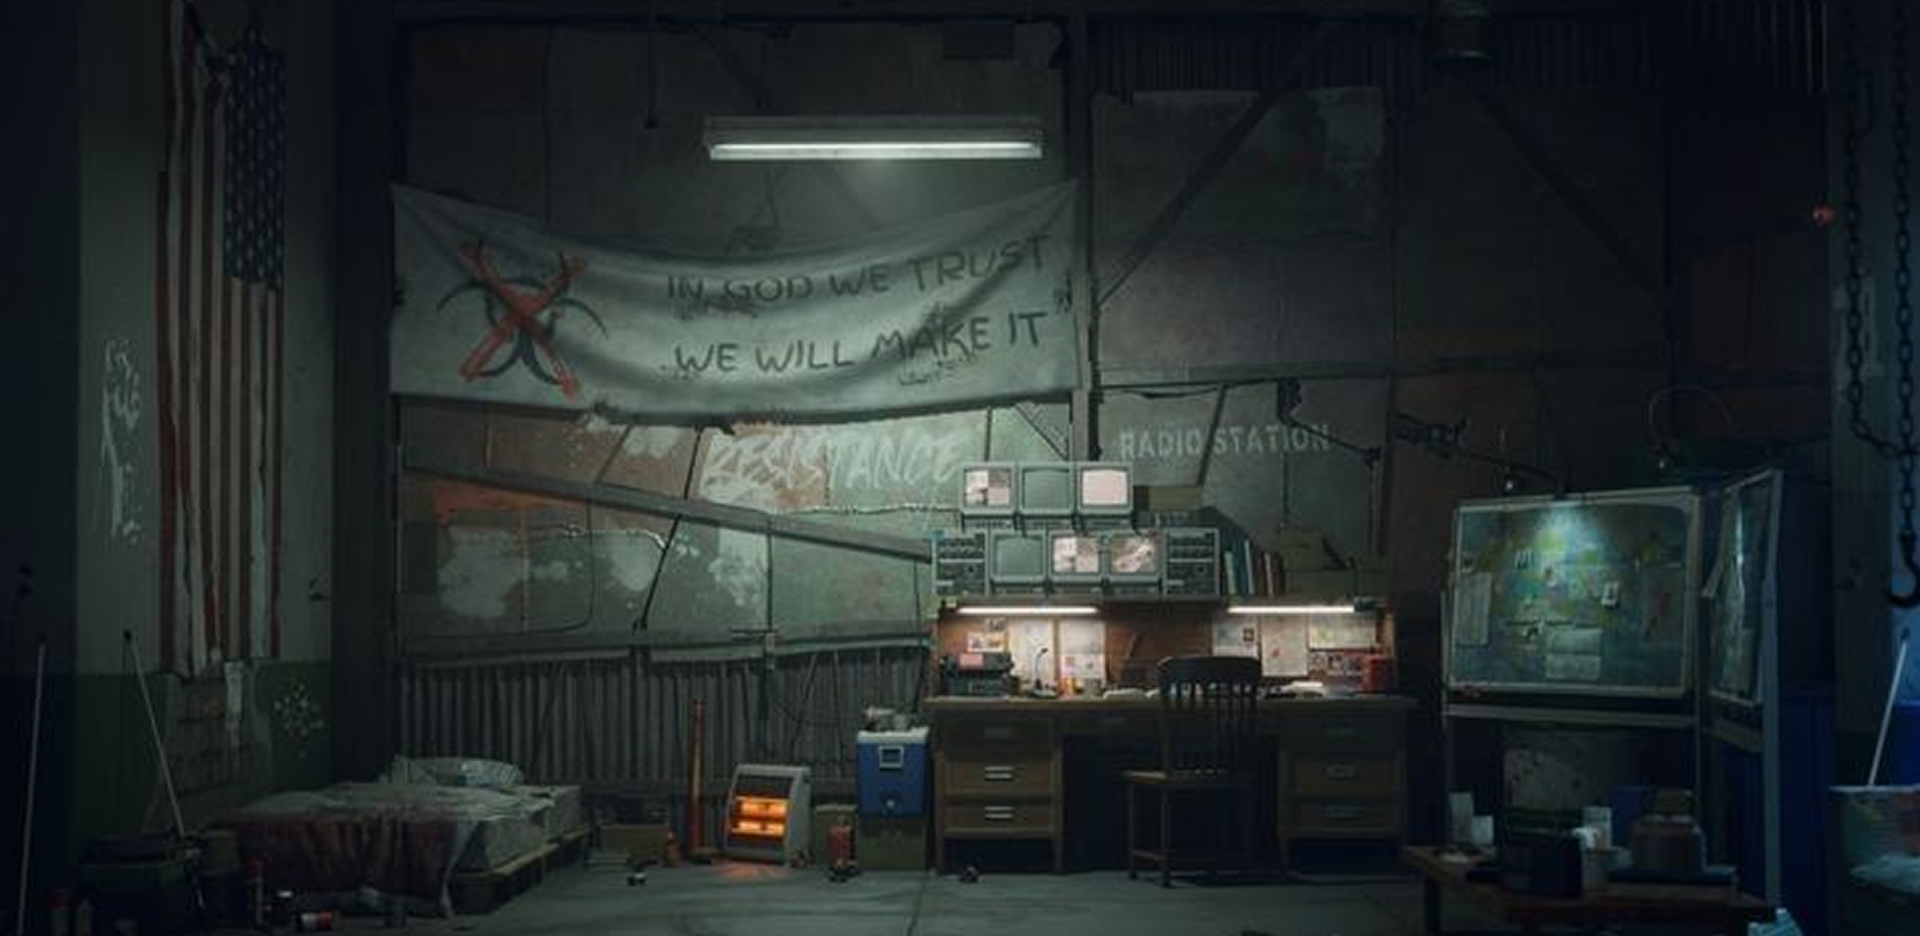
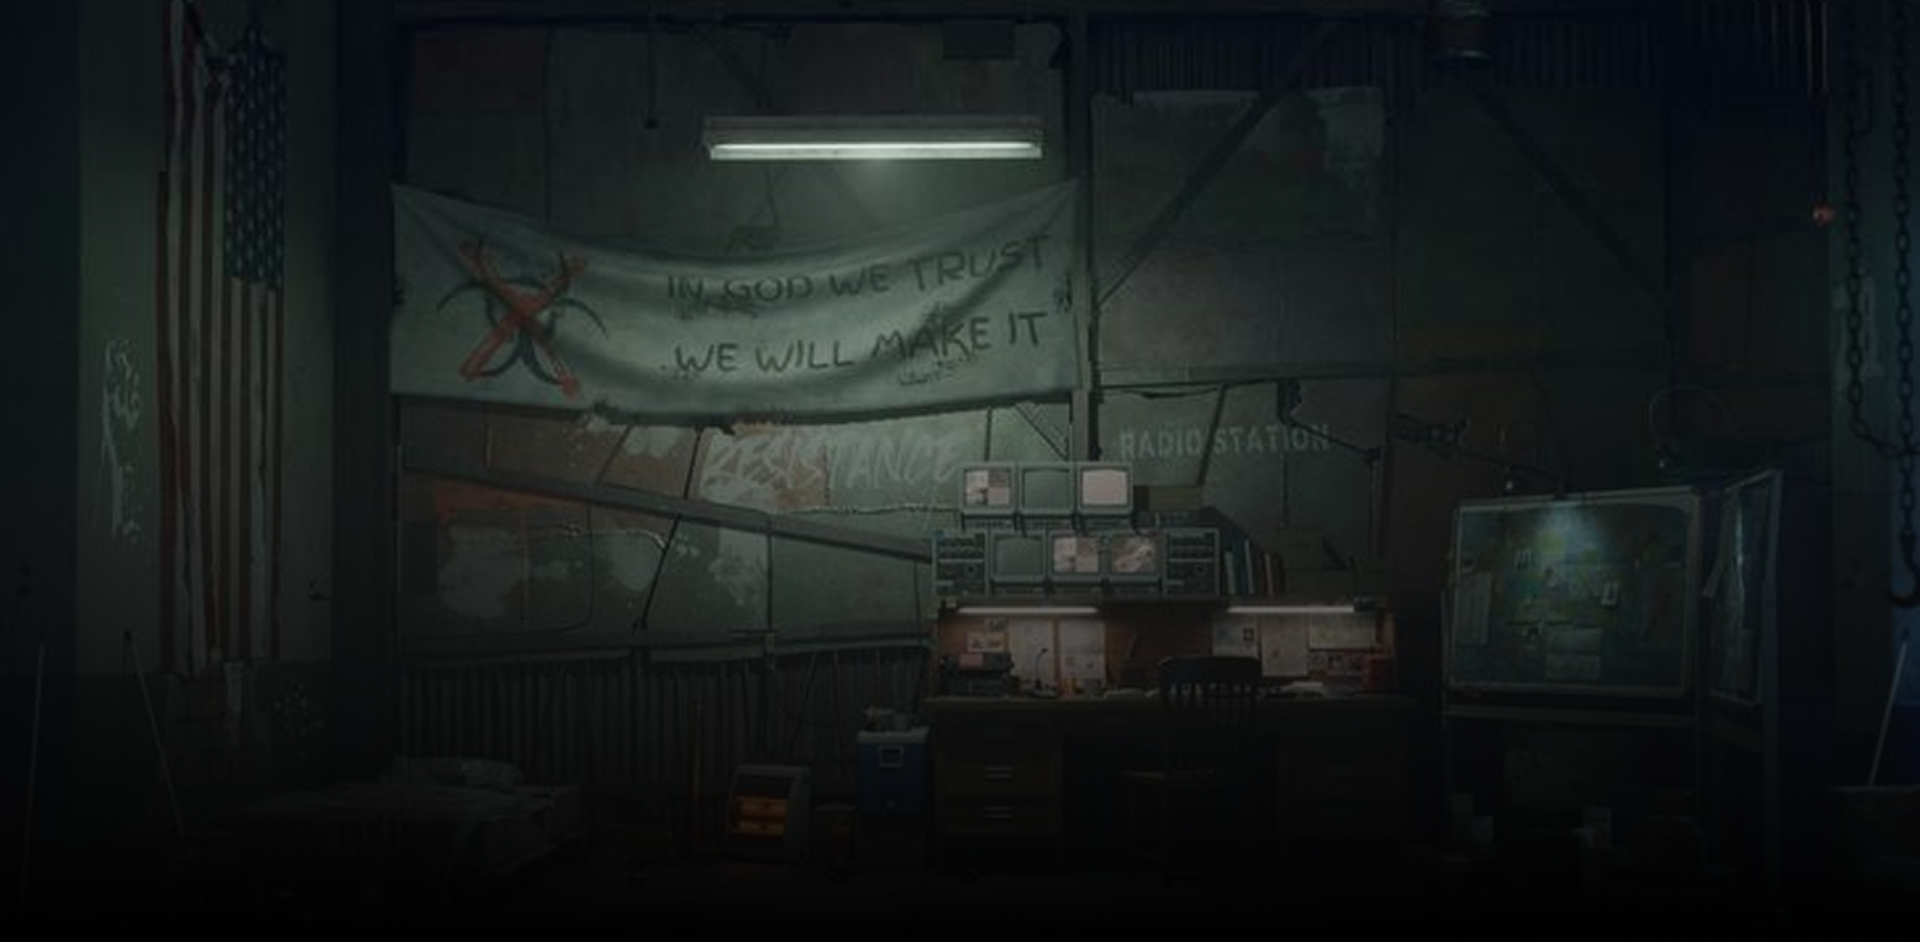
[fix]: changed the home page image and fixed bugs

diff --git a/src/App.js b/src/App.js
@@ -4,17 +4,19 @@ import Header from './components/Header/Header'
 import Footer from './components/Footer/Footer'
 import Home from "./pages/Home";
 import Studio from './pages/Studio'
+import Games from './pages/Games'
+import BarbWarn from './assets/Images/barb-warn.png'
 
 function App() {
   return (
-    <div className="h-screen relative bg-home-bg bg-cover bg-center">
-      <div className="absolute inset-0 bg-noise-bg z-10 bg-repeat">
+    <div className="h-screen bg-home-bg bg-cover bg-center">
+      <div className="inset-0 bg-noise-bg bg-repeat">
         <Header />
-        <div>
+        <div className="">
           <Home />
-          <div className="bg-gradient h-[100vh] relative">  
-            <Studio />
-          </div>
+          <Studio />
+          <img src={BarbWarn} className="w-full py-10" />
+          <Games />
         </div>
         <Footer />
       </div>

diff --git a/src/pages/Studio.js b/src/pages/Studio.js
@@ -6,7 +6,7 @@ import XImg from '../assets/Images/x-img.png'
 
 export default function Studio() {
   return (
-    <div className='flex items-center flex-col p-[100px] py-48 absolute gap-14 inset-0 bg-noise-bg z-10 bg-repeat'>
+    <div className='flex items-center flex-col px-[200px] pt-10 gap-14'>
       <div className='flex items-center flex-row justify-center gap-8'>
         <div className='flex items-center justify-center gap-1.5'>
           <h1 className='font-IMBPlex text-text-color [writing-mode:sideways-lr] text-xl'>FIND US HERE:</h1>

diff --git a/src/pages/Home.js b/src/pages/Home.js
@@ -2,7 +2,7 @@ import React from 'react'
 
 export default function Home() {
   return (
-    <div className='flex items-center justify-center text-center pt-48 pb-32'>
+    <div className='flex items-center justify-center text-center h-[90vh]'>
       <h1 className='text-primary-color text-8xl font-BebasNeueRegular'>PIXEE GAME|TINY STUDIO<br/>EPIC WORLDS</h1>
     </div>
   )

diff --git a/src/index.css b/src/index.css
@@ -42,8 +42,4 @@
         font-display: swap;
         src: url(./assets/Fonts/Bebas_Neue/BebasNeue-Regular.ttf);
     }
-
-    .bg-gradient {
-        background: linear-gradient(rgba(255, 255, 255, 0) 0%, rgba(0, 0, 0, 1) 15%, rgba(0, 0, 0, 1) 100%);
-    }
 }
